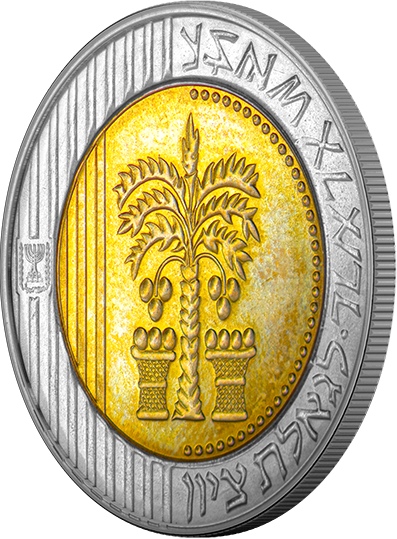
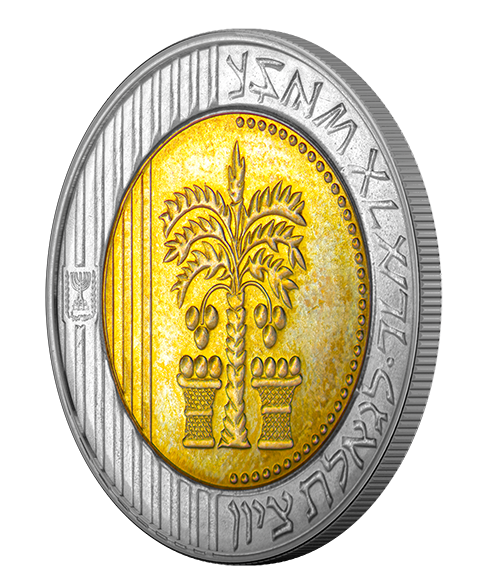
Slide 25: equally wide rim strips, new 10 NIS photo; slide 33/36: video notes clear of the question box

diff --git a/js/app.js b/js/app.js
@@ -874,10 +874,12 @@
   /* the rim only (never the face – that would give the value away): a tall strip along the edge of the photo of each
      side of the coin (coin-side-<coin>a/b), so the whole rim shows from top to bottom (on 2 ₪: grooved and smooth
      sections); t.rims[side] = [x1, y1, x2, y2] in % of the photo, h = the strip's height in px */
-  const COIN_AR = { "10a": 397 / 539, "10b": 387 / 539, "5a": 299 / 299, "5b": 297 / 295, "2a": 439 / 535, "2b": 405 / 535 };
+  const COIN_AR = { "10a": 481 / 583, "10b": 387 / 539, "5a": 299 / 299, "5b": 297 / 295, "2a": 439 / 535, "2b": 405 / 535 };
+  // every strip is equally wide (RIM_W × its height), its right side on the coin's edge: t.rims[side] = [right edge, top, bottom] in % of the photo
+  const RIM_W = 0.14;
   const rimMag = (t, side, h) => {
-    const [x1, y1, x2, y2] = t.rims[side], ih = h * 100 / (y2 - y1), iw = ih * COIN_AR[t.coin + side];
-    return `<span class="rim-mag" style="width:${Math.round(iw * (x2 - x1) / 100)}px;height:${h}px"><img src="${IMG}coin-side-${t.coin}${side}.png" alt="" style="height:${ih.toFixed(1)}px;transform:translate(-${x1}%,-${y1}%)"></span>`;
+    const [re, y1, y2] = t.rims[side], ih = h * 100 / (y2 - y1), iw = ih * COIN_AR[t.coin + side], w = Math.round(h * RIM_W);
+    return `<span class="rim-mag" style="width:${w}px;height:${h}px"><img src="${IMG}coin-side-${t.coin}${side}.png" alt="" style="height:${ih.toFixed(1)}px;left:${(w - iw * re / 100).toFixed(1)}px;top:${(-ih * y1 / 100).toFixed(1)}px;transform:none"></span>`;
   };  R.dragmatch = s => {
     const coins = s.kind === "coins";
     const target = (t, i) => coins

diff --git a/js/data.js b/js/data.js
@@ -436,8 +436,8 @@ const DATA = {
       // as on slide 24: 10 / 5 / 2 ₪ are told by their rims (a magnifier, no size); ½ ₪, 10 אג' and 1 ₪ – smooth rims – by their diameter (a silhouette)
       targets: [ { coin: "10ag", ans: "10 אג'", d: 22, by: "dia" }, { coin: "half", ans: "½ ₪", d: 26, by: "dia" }, { coin: "1", ans: "1 ₪", d: 18, by: "dia" },
                  // one photo per coin – the side whose rim shows best (2 ₪: grooved + smooth sections on side b), a wide strip along the rim
-                 { coin: "2", ans: "2 ₪", by: "edge", rims: { b: [70, 0, 101, 100] }, rim: "שוליים מחורצים לסירוגין: 4 קטעים מחורצים ו-4 קטעים חלקים" },
-                 { coin: "5", ans: "5 ₪", by: "edge", rims: { a: [78, 0, 102, 100] }, rim: "שוליים עם 12 צלעות" }, { coin: "10", ans: "10 ₪", by: "edge", rims: { a: [85, 0, 102, 100] }, rim: "שוליים מחורצים" } ],
+                 { coin: "2", ans: "2 ₪", by: "edge", rims: { b: [101, 0, 100] }, rim: "שוליים מחורצים לסירוגין: 4 קטעים מחורצים ו-4 קטעים חלקים" },
+                 { coin: "5", ans: "5 ₪", by: "edge", rims: { a: [101, 0, 100] }, rim: "שוליים עם 12 צלעות" }, { coin: "10", ans: "10 ₪", by: "edge", rims: { a: [93.5, 4.5, 97.5] }, rim: "שוליים מחורצים" } ],
       chips: ["10 אג'", "½ ₪", "1 ₪", "2 ₪", "5 ₪", "10 ₪"],
       done: "עליתם שלב בסולם!",
       prev: "l3-coins", next: "l4-intro",

diff --git a/css/currency.css b/css/currency.css
@@ -1064,11 +1064,11 @@
 .film-full video { position: absolute; inset: 0; width: 100%; height: 100%; display: block; background: #000000; object-fit: contain; }
 
 /* pulley drills with demo films (the golden book, the shiny strip): portrait clips of a note being tilted, looping, in tall frames */
-.pl-note.vid { width: 232px; top: 236px; }
+.pl-note.vid { width: 224px; top: 262px !important; }   /* clear of the white question box above */
 .pl-note.vid.right { left: 858px; } .pl-note.vid.left { left: 110px; }
 .screen:has(.pl-note.vid) .pl-fb { left: 345px !important; top: 92px; width: 510px; z-index: 6; }   /* where the question was (hidden on answering) */
 .screen:has(.pl-note.vid):has(.pl-fb:not([hidden])) .pl-q { visibility: hidden; }
-.pl-note.vid video { width: 100%; height: 384px; display: block; object-fit: cover; border-radius: 6px; background: #E9EDF0; pointer-events: none; }
+.pl-note.vid video { width: 100%; height: 368px; display: block; object-fit: cover; border-radius: 6px; background: #E9EDF0; pointer-events: none; }
 /* slide 25: one photo per coin – the zoom window as tall as the stage allows */
 .coin-modal { top: 14px; padding: 14px 28px 12px; }
 .coin-modal .h-title { font-size: 21px; }
